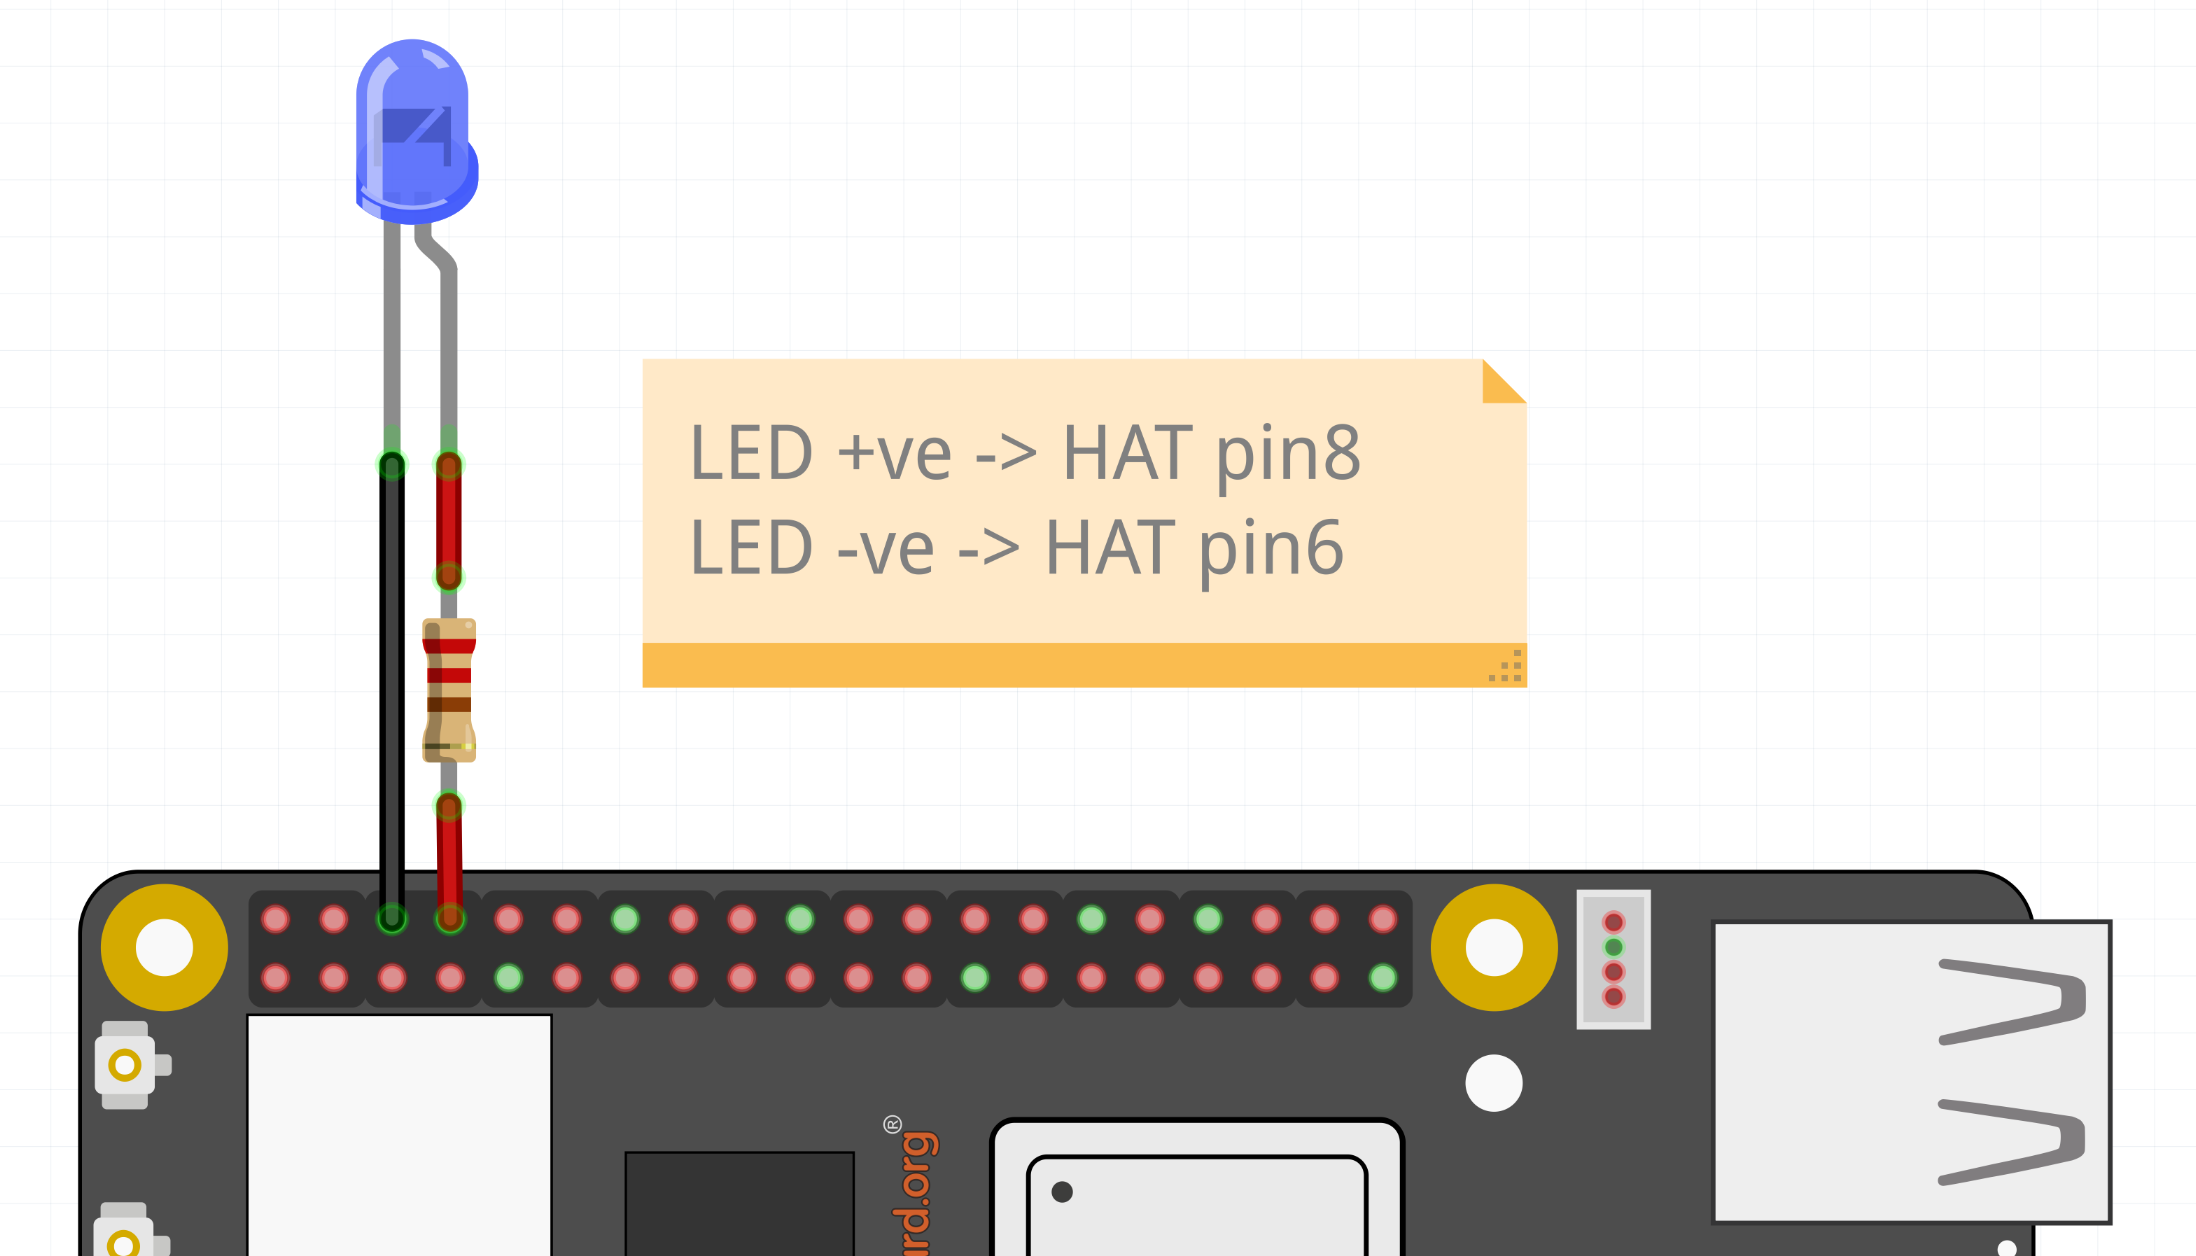
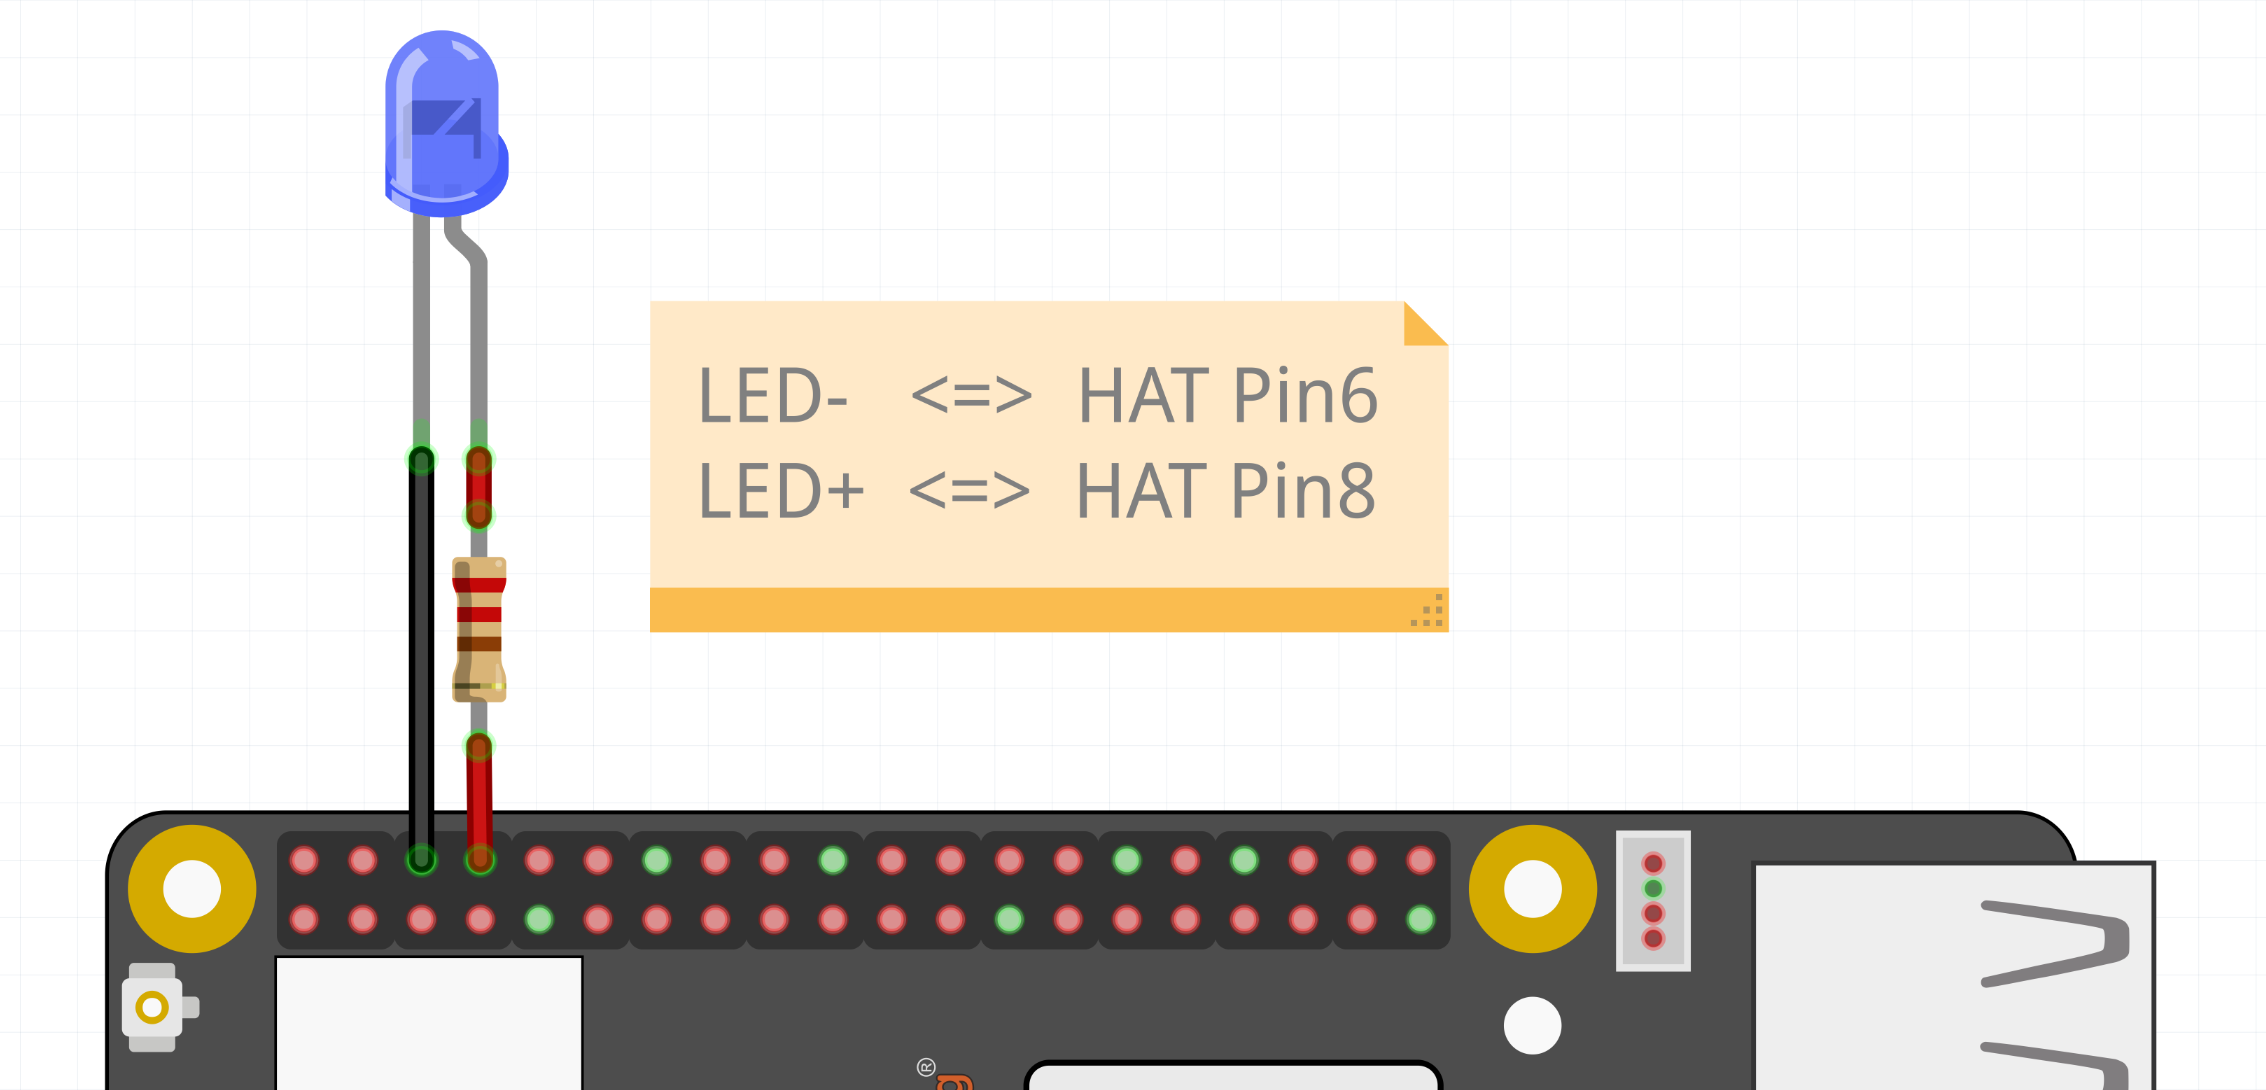
Update fritzing images

Changed region(s): [[0.031, 0.0312, 0.9599, 1.0], [0.2787, 0.2495, 0.7122, 0.5927]]

diff --git a/boards/beagley/ai/demos/beagley-ai-using-gpio.rst b/boards/beagley/ai/demos/beagley-ai-using-gpio.rst
@@ -55,7 +55,7 @@ to simulate a button press.
 GPIO Write
 ***********
 
-Before using any pin with HAT pin number we need to configure it using command below,
+Before using any pin with HAT Pin number we need to configure it using command below,
 
 .. code:: console
 
@@ -63,9 +63,9 @@ Before using any pin with HAT pin number we need to configure it using command b
 
 .. figure:: ../images/gpio/led-pin8.*
    :align: center
-   :alt: LED connected to HAT pin8
+   :alt: LED connected to HAT Pin8
 
-   LED connected to HAT pin8
+   LED connected to HAT Pin8
 
 At it's most basic, we can set a GPIO using the **gpioset** command. 
 
@@ -132,7 +132,7 @@ Let's create a script called **blinky.sh**,
 
    bash blinky.sh
 
-.. image:: ../images/gpio/blinky.gif
+.. figure:: ../images/gpio/blinky.gif
    :align: center
    :alt: LED blinking
 
@@ -178,9 +178,9 @@ We will connect our Button between HAT Pin 12 (GPIO18) and Ground (GND).
 
 .. figure:: ../images/gpio/switch-pin12.*
    :align: center
-   :alt: Button connected to HAT pin12
+   :alt: Button connected to HAT Pin12
 
-   Button connected to HAT pin12
+   Button connected to HAT Pin12
 
 - Configure pin12 as ``gpio`` using command below,
 
@@ -244,9 +244,9 @@ Combining the Two
 
 .. figure:: ../images/gpio/switch-pin12-led-pin8.*
    :align: center
-   :alt: Button connected to HAT pin12 & LED connected to HAT pin8
+   :alt: Button connected to HAT Pin12 & LED connected to HAT Pin8
 
-   Button connected to HAT pin12 & LED connected to HAT pin8
+   Button connected to HAT Pin12 & LED connected to HAT Pin8
 
 Now, logically, let's make an LED match the state of the button.
 
@@ -341,15 +341,15 @@ Troubleshooting
 
 - **My script won't run!**
 
-Make sure you gave the script execute permissions first and that you're executing it with a **./** before
+Make sure you gave the script execute permissions first and that you're executing it with a ``./`` before
 
-To make it executable:
+- To make it executable:
 
 .. code:: bash
 
    chmod +X scriptName.sh
 
-To run it:
+- To run it:
 
 .. code:: bash
 
